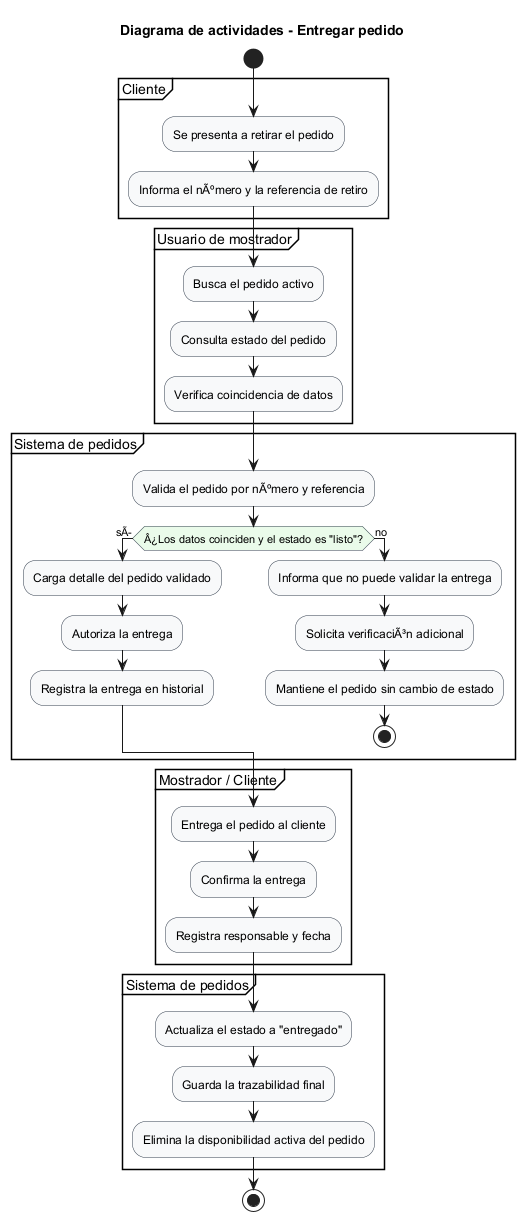
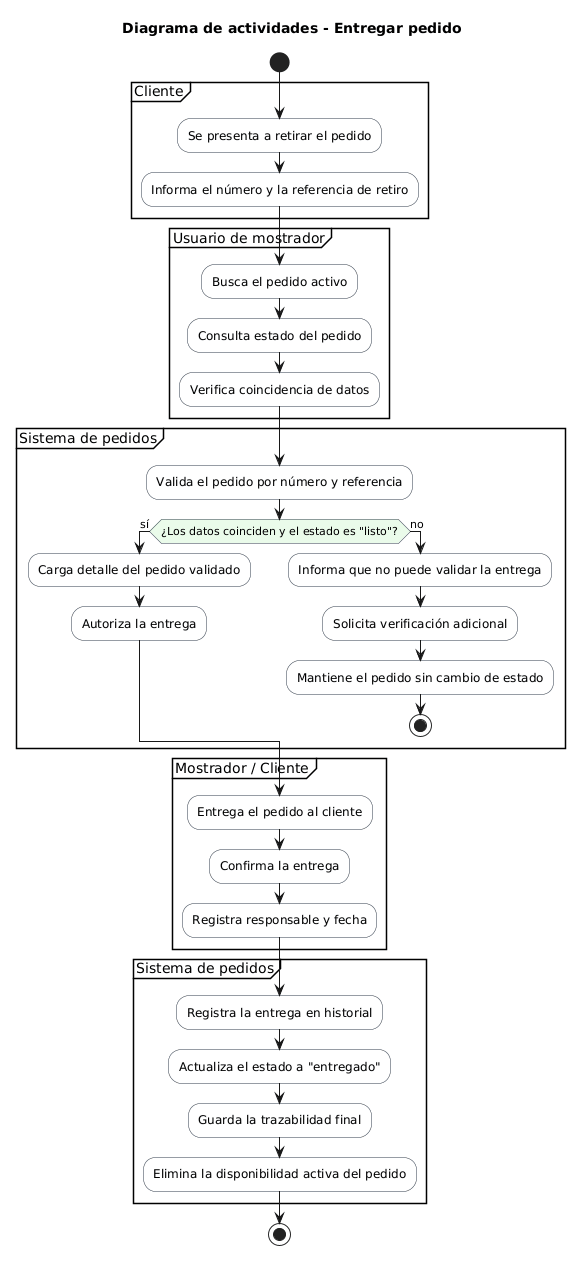
Correcciones de Hallazgos

Changed region(s): [[0.0, 0.0, 1.0, 0.9959]]

diff --git a/ia/a3/esp-actividades-3-4-5.md b/ia/a3/esp-actividades-3-4-5.md
@@ -54,4 +54,8 @@ Durante la generación se realizaron los siguientes ajustes para mantener la tra
 - Se conservó la nomenclatura del entregable A3 y, además, se agregaron archivos auxiliares con nombres de compatibilidad para no perder ninguna referencia de la consigna.
 - Se exportaron los diagramas como PNG y se actualizaron los índices de navegación en `diagramas/04-diagramas-actividades/diagramas_de_actividades.md`.
 
+## Ajustes o iteracciones realizados
+
+Al concluir el trabajo fue necesario seleccionar los diagramas correctos debido a que hubo una duplicación de diagramas y nombres cruzados. El resto de las correcciones se realizaron a partir de las RC que solicito el coordinador.
+
 El resultado final quedó integrado en el repositorio con archivos `.puml` y `.png` y listo para revisión en la carpeta indicada.
